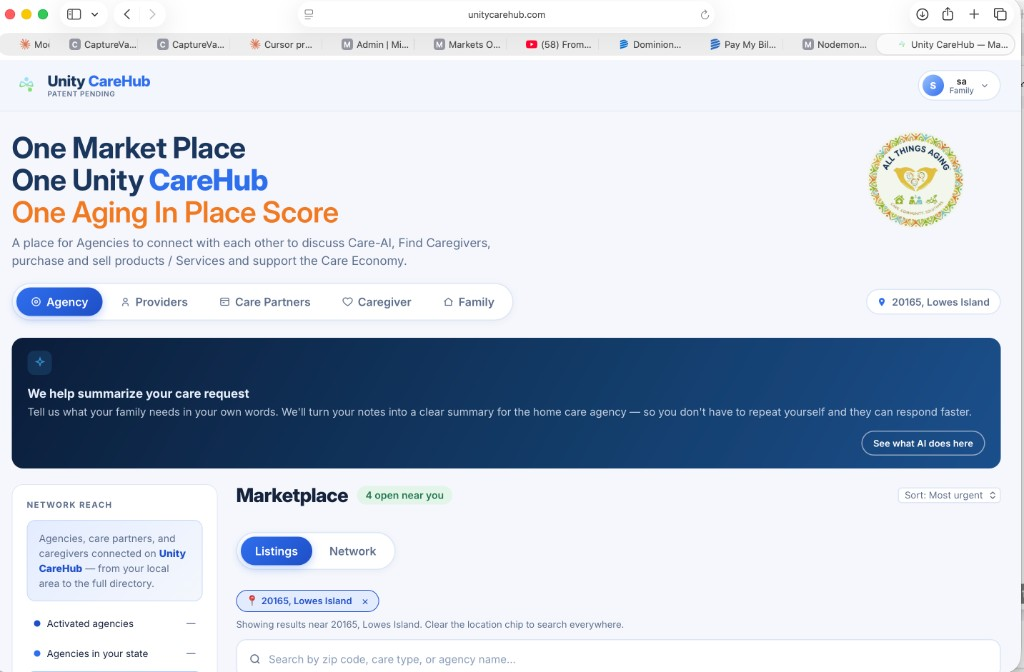
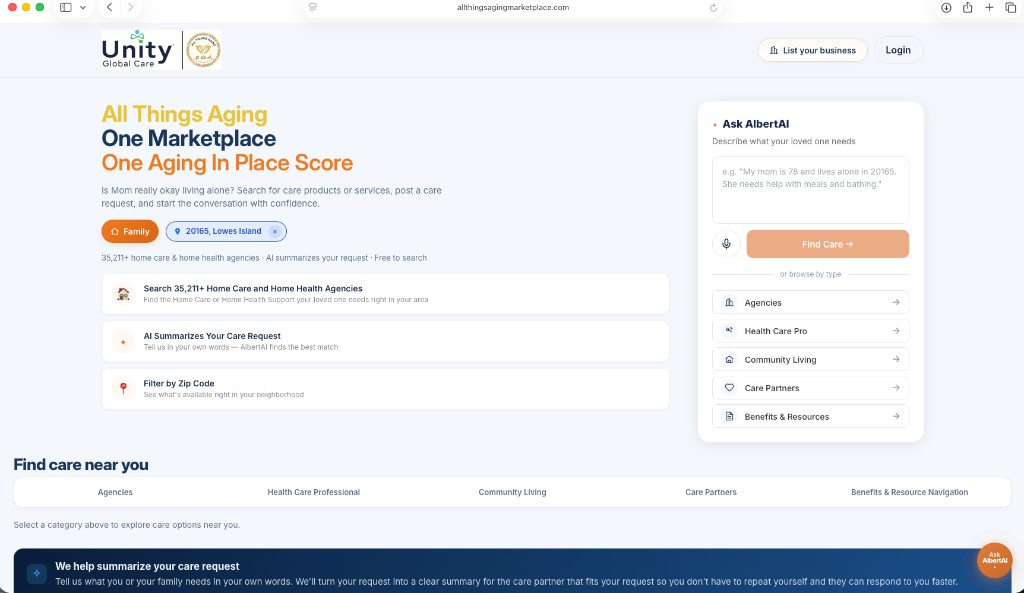
add

diff --git a/medcore/index.html b/medcore/index.html
@@ -851,6 +851,58 @@
             </p>
             </div>
           </a>
+          <a
+            href="https://homecareinterview.com"
+            target="_blank"
+            rel="noopener noreferrer"
+            class="card-hover rounded-xl bg-white/5 border border-white/10 block group overflow-hidden"
+          >
+            <div class="aspect-video overflow-hidden bg-slate-800 border-b border-white/10">
+              <img
+                src="unity-interview-product.png"
+                alt="Unity Home Care Interview — AI hiring for caregivers and nurses"
+                class="w-full h-full object-cover object-top group-hover:scale-105 transition-transform duration-500"
+              />
+            </div>
+            <div class="p-6">
+            <h5 class="text-lg font-bold text-white mb-2 group-hover:text-medcore-primary transition-colors">
+              Unity Home Care Interview
+            </h5>
+            <p class="text-slate-400 text-sm">
+              An AI hiring platform for home care agencies. Candidates apply in
+              minutes and interview with Kathy, a digital interviewer available
+              24/7 for caregivers, nurses, and office staff.
+            </p>
+            </div>
+          </a>
+          <a
+            href="https://sectoriq.app"
+            target="_blank"
+            rel="noopener noreferrer"
+            class="card-hover rounded-xl bg-white/5 border border-white/10 block group overflow-hidden"
+          >
+            <div class="aspect-video overflow-hidden bg-slate-800 border-b border-white/10">
+              <img
+                src="sectoriq-product.png"
+                alt="SectorIQ — market intelligence that scores and watchlists every business"
+                class="w-full h-full object-cover object-top group-hover:scale-105 transition-transform duration-500"
+              />
+            </div>
+            <div class="p-6">
+            <h5 class="text-lg font-bold text-white mb-2 group-hover:text-medcore-primary transition-colors">
+              SectorIQ
+            </h5>
+            <p class="text-slate-400 text-sm">
+              A live market-intelligence platform that maps every business in
+              your territory, scores each one for fit, and alerts you when a
+              watchlisted account changes. Built first for health and care —
+              hundreds of thousands of labeled provider records across 61
+              classifications and 16 buyer types — so sales and partnership
+              teams stop guessing who to call and start working a ranked,
+              always-current pipeline.
+            </p>
+            </div>
+          </a>
         </div>
       </div>
     </section>
